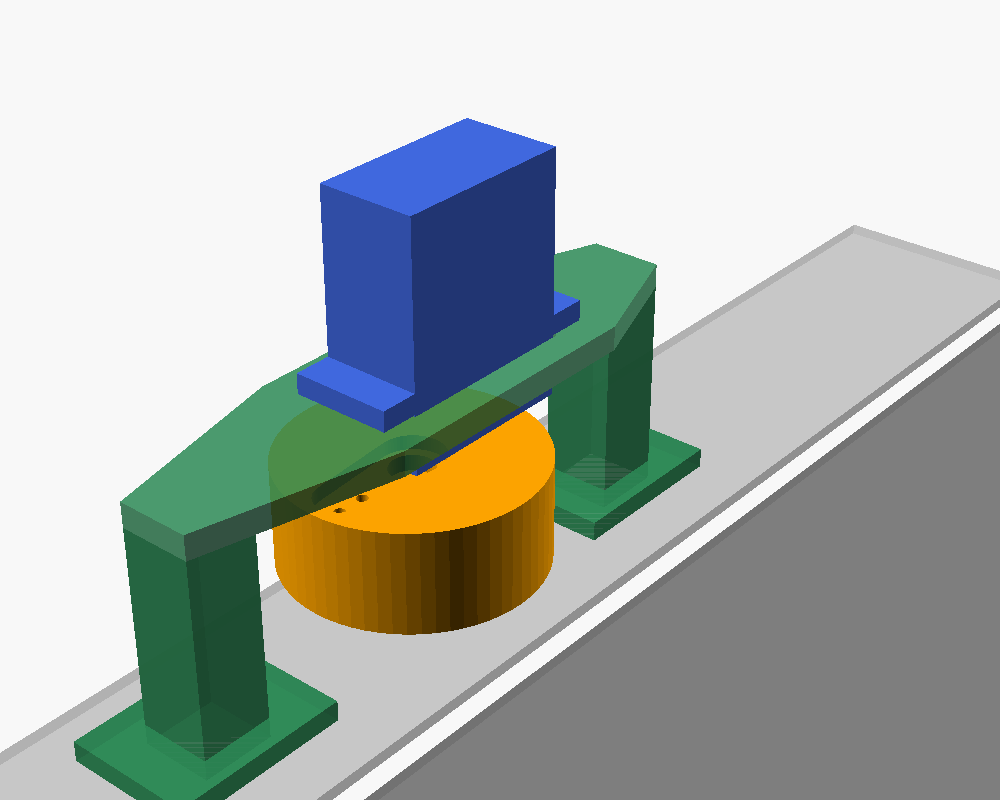
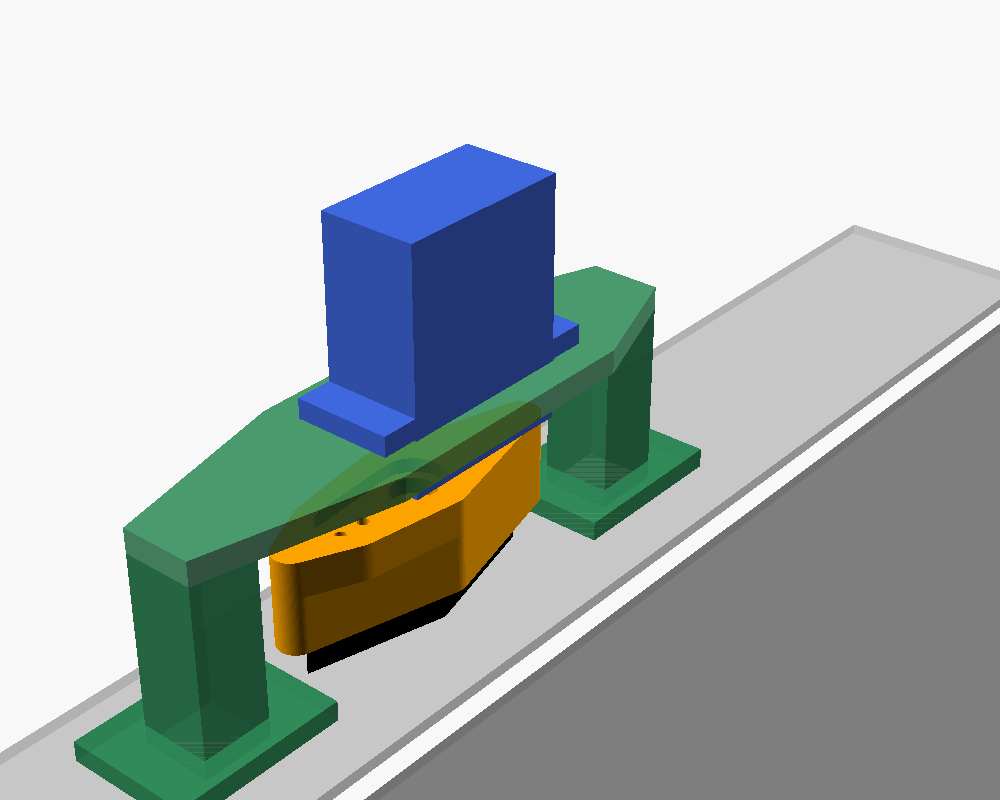
Mitnehmer als Rautenhülse für den 35 × 9 mm Drehknopf
Claude-Session: https://claude.ai/code/session_01V2ShDL9xXnCPpknpFR2EBe

Changed region(s): [[0.124, 0.2812, 0.682, 0.8438], [0.31, 0.125, 0.558, 0.3125]]

diff --git a/hardware/README.md b/hardware/README.md
@@ -1,6 +1,7 @@
 # Hardware: Lamellen-Aktor
 
-Für Edelstahl-Lüftungsgitter mit einem kleinen Drehknopf auf dem Rahmenrand. Der Knopf
+Für Edelstahl-Lüftungsgitter mit einem kleinen, rautenförmigen Drehknopf auf dem Rahmenrand
+(35 × 9 mm). Der Knopf
 verstellt die Lamellen um 45° und dreht sich dabei nur, ohne vor oder zurück zu wandern.
 Der Aktor baut **nur entlang des Rahmenrands** (Standard: Servo oberhalb des Knopfs). Er
 verdeckt keine Lamellen und passt neben Möbel, die direkt am Gitter stehen.
@@ -18,7 +19,7 @@ Variante wählen: `variante = "direkt";` oder `"getriebe"` oben in `lamellen_akt
 
 | Teil | Material | Ausrichtung |
 |---|---|---|
-| `mitnehmer` – Glocke über dem Knopf (+ Zahnsegment) | PETG, bei > 60 °C am Knopf ASA | wird automatisch richtig gedreht, keine Stützen |
+| `mitnehmer` – Rautenhülse über dem Knopf (+ Zahnsegment) | PETG, bei > 60 °C am Knopf ASA | wird automatisch richtig gedreht, keine Stützen |
 | `halter` – Platte mit Servoausschnitt, zwei Füße | PETG | Platte aufs Bett, **Baumstützen nur unter den Füßen** |
 | `ritzel` (nur getriebe) | PETG, 100 % Infill | flach |
 
@@ -35,9 +36,10 @@ zu prüfen.
 
 | Parameter | Bedeutung |
 |---|---|
-| `knob_span`, `knob_wing_t` | größte Breite des Knopfs und Breite quer dazu |
-| `knob_hub_d`, `knob_h` | Durchmesser des runden Fußes, Höhe über dem Rahmen |
-| `engage` | wie tief die Glocke über den Knopf greift (≤ `knob_h`) |
+| `knob_len`, `knob_w` | Länge und größte Breite der Raute (gemessen: 35 / 9 mm) |
+| `knob_h` | wie weit der Knopf aus dem Rahmen ragt (**noch messen**, Platzhalter 12 mm) |
+| `engage` | wie tief die Hülse über den Knopf greift (≤ `knob_h`) |
+| `knob_angle` | Lage der Rautenlängsachse bei der Montage (90 = senkrecht) |
 | `feet` | Fußpositionen relativ zur Knopfachse, beide auf dem Rahmenrand |
 | `foot_size` | Klebefläche; Breite (x) ≤ Breite des Rahmenrands |
 | `servo_dir` | 90 = Servo über dem Knopf, 270 = darunter |
@@ -56,10 +58,11 @@ Einheit und lassen sich zum Reinigen zusammen herausziehen.
 **Direkt:**
 1. Das einarmige Horn mit der Mittelschraube auf den Servo schrauben (Stellung siehe
    Kalibrierung in `firmware/README.md`).
-2. Die Glocke mit der Tasche auf das Horn drücken. Zwei kleine Hornschrauben von innen durch
-   die Glocke in die Hornlöcher drehen.
+2. Die Hülse mit der Tasche auf das Horn drücken. Die Hornachse muss dabei entlang der
+   Rautenlängsachse liegen. Zwei kleine Hornschrauben von innen durch das Dach in die
+   Hornlöcher drehen.
 3. Den Servo von vorn durch die Platte stecken und an den Laschen festschrauben.
-4. Den Aktor mit der Glocke über den Knopf setzen und die Füße aufkleben.
+4. Den Aktor mit der Hülse über den Knopf setzen und die Füße aufkleben.
 
 **Getriebe:**
 1. Horn auf 9 mm ab Wellenmitte kürzen, in die Tasche des Ritzels legen und mit zwei kleinen
